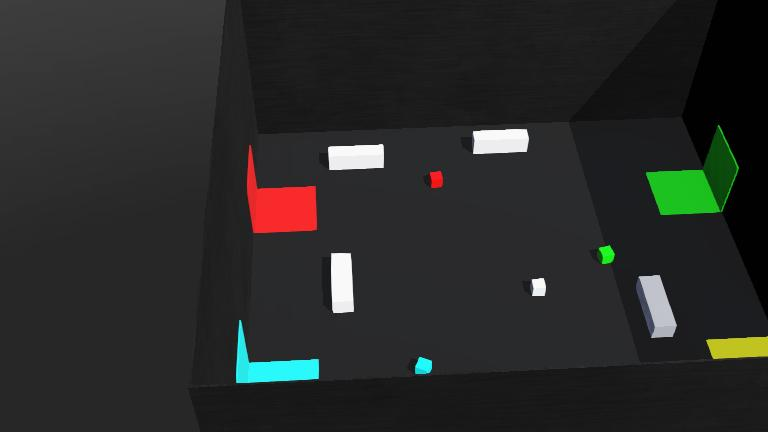
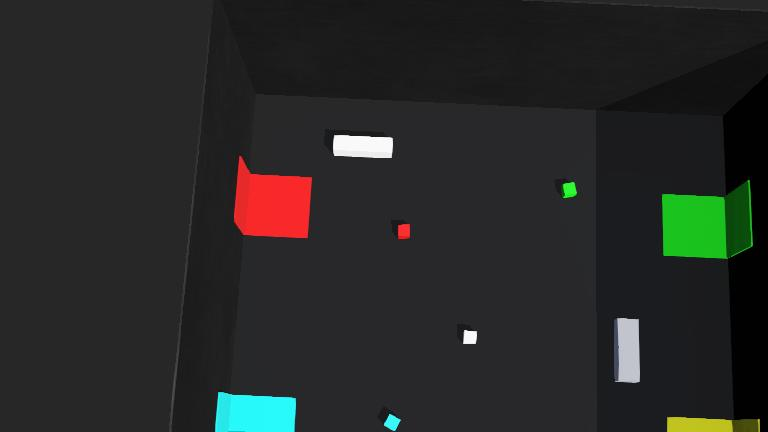
task done but without obstacle avoidence

diff --git a/Final/controllers/bbAlr8/bbAlr8.py b/Final/controllers/bbAlr8/bbAlr8.py
@@ -2,9 +2,9 @@ import cv2
 import numpy as np
 from controller import Robot, Camera, Motor, Gyro
 
-class SimplifiedRobotController:
+class MultiColorRobotController:
     def __init__(self):
-        """Initialize the robot controller with OpenCV color tracking."""
+        """Initialize the robot controller with OpenCV color tracking for multiple colors."""
         # Initialize the robot
         self.robot = Robot()
         self.time_step = int(self.robot.getBasicTimeStep())
@@ -30,9 +30,18 @@ class SimplifiedRobotController:
         # Default motor speeds
         self.MAX_SPEED = 7.0
         
-        # Color detection parameters (HSV ranges)
-        self.blue_lower = np.array([90, 100, 50])
-        self.blue_upper = np.array([130, 255, 255])
+        # Color detection parameters (HSV ranges for different colors)
+        self.color_ranges = {
+            "blue": {"lower": np.array([90, 100, 50]), "upper": np.array([130, 255, 255])},
+            "red1": {"lower": np.array([0, 100, 50]), "upper": np.array([10, 255, 255])},  # Lower red range
+            "red2": {"lower": np.array([160, 100, 50]), "upper": np.array([180, 255, 255])},  # Upper red range
+            "green": {"lower": np.array([40, 100, 50]), "upper": np.array([80, 255, 255])},
+            "yellow": {"lower": np.array([20, 100, 50]), "upper": np.array([40, 255, 255])}
+        }
+        
+        # Current color to detect (for both box and goal)
+        self.current_color = "blue"
+        self.target_mode = "box"  # Either "box" or "goal"
         
         # Box detection parameters
         self.min_box_area = 300
@@ -43,6 +52,7 @@ class SimplifiedRobotController:
         cv2.namedWindow('Robot View', cv2.WINDOW_NORMAL)
         
         # Task management
+        self.main_phase = "blue_phase"  # Starts with blue phase, then red, green, yellow
         self.current_task = "initial_navigation"
         self.has_box = False
         self.turn_angle = 0.0
@@ -54,12 +64,15 @@ class SimplifiedRobotController:
         img_array = np.frombuffer(image, np.uint8).reshape((self.height, self.width, 4))
         return img_array[:, :, :3]  # Return BGR image
     
-    def detect_blue_object(self, captured_mode=False):
+    def detect_colored_object(self, goal_mode=False):
         """
-        Detect blue objects in the image with size constraints.
-        Returns (detected, x, y, w, h, area, center_x)
+        Detect colored objects in the image with size constraints.
         
-        If captured_mode is True, we're looking for the goal, which is larger
+        Args:
+            goal_mode (bool): If True, looking for goals which are larger than boxes
+        
+        Returns:
+            (detected, x, y, w, h, area, center_x)
         """
         # Get camera image
         img_bgr = self.get_camera_image()
@@ -68,8 +81,16 @@ class SimplifiedRobotController:
         # Convert to HSV colorspace
         img_hsv = cv2.cvtColor(img_bgr, cv2.COLOR_BGR2HSV)
         
-        # Create mask for blue color
-        mask = cv2.inRange(img_hsv, self.blue_lower, self.blue_upper)
+        # Create mask for the current color
+        if self.current_color == "red":
+            # For red, we need to combine two ranges due to how hue wraps around
+            mask1 = cv2.inRange(img_hsv, self.color_ranges["red1"]["lower"], self.color_ranges["red1"]["upper"])
+            mask2 = cv2.inRange(img_hsv, self.color_ranges["red2"]["lower"], self.color_ranges["red2"]["upper"])
+            mask = cv2.bitwise_or(mask1, mask2)
+        else:
+            # For other colors, use the corresponding range
+            mask = cv2.inRange(img_hsv, self.color_ranges[self.current_color]["lower"], 
+                              self.color_ranges[self.current_color]["upper"])
         
         # Add morphology operations to clean up the mask
         kernel = np.ones((5, 5), np.uint8)
@@ -80,10 +101,10 @@ class SimplifiedRobotController:
         contours, _ = cv2.findContours(mask, cv2.RETR_EXTERNAL, cv2.CHAIN_APPROX_SIMPLE)
         
         # Area constraints
-        min_area = self.min_box_area  # Default minimum area (e.g., 500 pixels)
+        min_area = self.min_box_area  # Default minimum area
         max_area = self.width * self.height * 0.2  # Max 20% of image
         
-        if captured_mode:
+        if goal_mode:
             # When looking for the goal, adjust size constraints
             min_area = self.min_box_area * 3
             max_area = self.width * self.height * 0.8  # Allow larger area for goal
@@ -106,8 +127,16 @@ class SimplifiedRobotController:
             x, y, w, h = cv2.boundingRect(best_contour)
             center_x = x + (w // 2)
             
-            # Draw rectangle around detected object
-            cv2.rectangle(img_display, (x, y), (x + w, y + h), (0, 0, 255), 2)
+            # Set display color based on current color
+            color_display = (0, 0, 255)  # Default red rectangle
+            if self.current_color == "blue":
+                color_display = (255, 0, 0)
+            elif self.current_color == "green":
+                color_display = (0, 255, 0)
+            elif self.current_color == "yellow":
+                color_display = (0, 255, 255)
+            
+            cv2.rectangle(img_display, (x, y), (x + w, y + h), color_display, 2)
             cv2.line(img_display, (center_x, y), (center_x, y + h), (255, 0, 0), 2)
             
             # Draw center of image
@@ -116,21 +145,21 @@ class SimplifiedRobotController:
             
             # Add information text
             aspect_ratio = w / max(1, h)
-            cv2.putText(img_display, f"Task: {self.current_task}", (10, 20), 
+            cv2.putText(img_display, f"Phase: {self.main_phase}", (10, 20), 
                         cv2.FONT_HERSHEY_SIMPLEX, 0.6, (255, 255, 255), 2)
-            cv2.putText(img_display, f"Area: {max_area_found:.0f}", (10, 50), 
+            cv2.putText(img_display, f"Task: {self.current_task}", (10, 45), 
                         cv2.FONT_HERSHEY_SIMPLEX, 0.6, (255, 255, 255), 2)
-            cv2.putText(img_display, f"Aspect: {aspect_ratio:.2f}", (10, 80), 
+            cv2.putText(img_display, f"Target: {self.target_mode} ({self.current_color})", (10, 70), 
+                        cv2.FONT_HERSHEY_SIMPLEX, 0.6, (255, 255, 255), 2)
+            cv2.putText(img_display, f"Area: {max_area_found:.0f}", (10, 95), 
+                        cv2.FONT_HERSHEY_SIMPLEX, 0.6, (255, 255, 255), 2)
+            cv2.putText(img_display, f"Aspect: {aspect_ratio:.2f}", (10, 120), 
                         cv2.FONT_HERSHEY_SIMPLEX, 0.6, (255, 255, 255), 2)
             
             # Show constraints
-            cv2.putText(img_display, f"Min area: {min_area}", (10, 110),
+            cv2.putText(img_display, f"Min area: {min_area}", (10, 145),
                         cv2.FONT_HERSHEY_SIMPLEX, 0.6, (255, 255, 255), 2)
-            cv2.putText(img_display, f"Max area: {max_area:.0f}", (10, 140),
-                        cv2.FONT_HERSHEY_SIMPLEX, 0.6, (255, 255, 255), 2)
-            cv2.putText(img_display, f"Y : {y:.0f}", (10, 170),
-                        cv2.FONT_HERSHEY_SIMPLEX, 0.6, (255, 255, 255), 2)
-            cv2.putText(img_display, f"Height*0.9 : {self.height*0.9:.0f}", (10, 200),
+            cv2.putText(img_display, f"Max area: {max_area:.0f}", (10, 170),
                         cv2.FONT_HERSHEY_SIMPLEX, 0.6, (255, 255, 255), 2)
             
             # Display the image
@@ -140,15 +169,19 @@ class SimplifiedRobotController:
             return True, x, y, w, h, max_area_found, center_x
         else:
             # No object detected
-            cv2.putText(img_display, f"Task: {self.current_task}", (10, 20), 
+            cv2.putText(img_display, f"Phase: {self.main_phase}", (10, 20), 
                         cv2.FONT_HERSHEY_SIMPLEX, 0.6, (255, 255, 255), 2)
-            cv2.putText(img_display, "No blue object detected", (10, 50), 
+            cv2.putText(img_display, f"Task: {self.current_task}", (10, 45), 
+                        cv2.FONT_HERSHEY_SIMPLEX, 0.6, (255, 255, 255), 2)
+            cv2.putText(img_display, f"Target: {self.target_mode} ({self.current_color})", (10, 70), 
+                        cv2.FONT_HERSHEY_SIMPLEX, 0.6, (255, 255, 255), 2)
+            cv2.putText(img_display, f"No object detected", (10, 95), 
                         cv2.FONT_HERSHEY_SIMPLEX, 0.6, (255, 255, 255), 2)
             
             # Show constraints
-            cv2.putText(img_display, f"Min area: {min_area}", (10, 80),
+            cv2.putText(img_display, f"Min area: {min_area}", (10, 120),
                         cv2.FONT_HERSHEY_SIMPLEX, 0.6, (255, 255, 255), 2)
-            cv2.putText(img_display, f"Max area: {max_area:.0f}", (10, 110),
+            cv2.putText(img_display, f"Max area: {max_area:.0f}", (10, 145),
                         cv2.FONT_HERSHEY_SIMPLEX, 0.6, (255, 255, 255), 2)
             
             # Draw center of image
@@ -156,7 +189,7 @@ class SimplifiedRobotController:
             cv2.line(img_display, (img_center_x, 0), (img_center_x, self.height), (0, 255, 255), 1)
             
             # Also display the mask to debug color detection
-            cv2.imshow('Blue Mask', mask)
+            cv2.imshow('Color Mask', mask)
             cv2.imshow('Robot View', img_display)
             cv2.waitKey(1)
             
@@ -249,20 +282,45 @@ class SimplifiedRobotController:
         
         return False
     
+    def transition_to_next_color_phase(self):
+        """Transition to the next color phase in the sequence."""
+        if self.main_phase == "blue_phase":
+            self.main_phase = "red_phase"
+            self.current_color = "red"
+            print("Transitioning to RED phase")
+        elif self.main_phase == "red_phase":
+            self.main_phase = "green_phase"
+            self.current_color = "green"
+            print("Transitioning to GREEN phase")
+        elif self.main_phase == "green_phase":
+            self.main_phase = "yellow_phase"
+            self.current_color = "yellow"
+            print("Transitioning to YELLOW phase")
+        elif self.main_phase == "yellow_phase":
+            self.main_phase = "completed"
+            print("All phases completed!")
+        
+        # Reset task state for the new phase
+        self.current_task = "turn_to_find_box"
+        self.target_mode = "box"  # Start by finding a box
+        self.has_box = False
+        self.reset_rotation_tracking()
+        self.timer = 0
+    
     def run(self):
         """Main control loop for the robot."""
-        # Target angles for initial navigation (radians)
-        TURN_LEFT_ANGLE = 1.57   # 90 degrees
-        TURN_RIGHT_ANGLE = -1.57  # -90 degrees
+        # Define angles for turns (radians)
+        TURN_LEFT_ANGLE = 1.57    # 90 degrees counterclockwise
+        TURN_RIGHT_ANGLE = -1.57  # 90 degrees clockwise
+        TURN_180_ANGLE = -3.14 *0.4 # 180 degrees (full turn)
         
-        # Initial turn complete flag
+        # Initial turn complete flag for blue phase
         self.has_completed_initial_turn = False
         self.has_moved_forward = False
         self.has_turned_right = False
-        self.initial_search_started = False
         
         # Drive forward timer
-        forward_time = 1500  # milliseconds
+        forward_time = 1600  # milliseconds
         self.timer = 0
         
         # Reset rotation tracking at start
@@ -272,8 +330,8 @@ class SimplifiedRobotController:
             # Update timer
             self.timer += self.time_step
             
-            # Simple task-based approach instead of complex state machine
-            if self.current_task == "initial_navigation":
+            # Blue Phase: Initial Navigation
+            if self.main_phase == "blue_phase" and self.current_task == "initial_navigation":
                 # Sub-task 1: Turn left 90 degrees
                 if not self.has_completed_initial_turn:
                     if self.turn_to_angle(TURN_LEFT_ANGLE):
@@ -296,20 +354,30 @@ class SimplifiedRobotController:
                         self.reset_rotation_tracking()
                         print("Right turn complete")
                         self.current_task = "find_box"
+                        self.target_mode = "box"
             
+            # All Phases: Find Box of Current Color
             elif self.current_task == "find_box":
-                # Search for the blue box by rotating
-                detected, x, y, w, h, area, center_x = self.detect_blue_object(False)
+                # Make sure we're looking for a box
+                self.target_mode = "box"
+                
+                # Search for the box of current color by rotating
+                detected, x, y, w, h, area, center_x = self.detect_colored_object(False)
                 
                 if not detected:
                     # Turn slowly to search
                     self.move_motors(-self.MAX_SPEED * 0.5, self.MAX_SPEED * 0.5)
                 else:
                     self.current_task = "approach_box"
+                    print(f"Found {self.current_color} box, approaching")
             
+            # All Phases: Approach Box
             elif self.current_task == "approach_box":
-                # Detect and follow the blue box
-                detected, x, y, w, h, area, center_x = self.detect_blue_object(False)
+                # Make sure we're still looking for a box
+                self.target_mode = "box"
+                
+                # Detect and follow the box
+                detected, x, y, w, h, area, center_x = self.detect_colored_object(False)
                 
                 if not detected:
                     # Lost the box, go back to search
@@ -320,32 +388,42 @@ class SimplifiedRobotController:
                     self.has_box = True
                     self.reset_rotation_tracking()
                     self.current_task = "turn_to_goal"
-                    print("Box captured, turning to find goal")
+                    print(f"{self.current_color} box captured, turning to find goal")
                 else:
                     # Follow the box using adaptive control
                     self.follow_object(detected, center_x, area)
             
+            # All Phases: Turn to Find Goal
             elif self.current_task == "turn_to_goal":
                 # Turn left 90 degrees to face the goal area
                 if self.turn_to_angle(TURN_LEFT_ANGLE):
                     self.reset_rotation_tracking()
                     self.current_task = "find_goal"
-                    print("Turned to face goal area")
+                    self.target_mode = "goal"  # Now looking for a goal
+                    print(f"Turned to face {self.current_color} goal area")
             
+            # All Phases: Find Goal - Now uses the same color as the box
             elif self.current_task == "find_goal":
-                # Search for the blue goal
-                detected, x, y, w, h, area, center_x = self.detect_blue_object(True)
+                # We're looking for a goal - keep same color as the box
+                self.target_mode = "goal"
+                
+                # Search for the matching colored goal
+                detected, x, y, w, h, area, center_x = self.detect_colored_object(True)
                 
                 if not detected:
                     # Turn slowly to search
                     self.move_motors(-self.MAX_SPEED * 0.5, self.MAX_SPEED * 0.5)
                 else:
                     self.current_task = "approach_goal"
-                    print("Goal found, approaching")
+                    print(f"{self.current_color} goal found, approaching")
             
+            # All Phases: Approach Goal - Uses same color as box
             elif self.current_task == "approach_goal":
-                # Detect and approach the blue goal
-                detected, x, y, w, h, area, center_x = self.detect_blue_object(True)
+                # Still looking for a goal
+                self.target_mode = "goal"
+                
+                # Detect and approach the matching colored goal
+                detected, x, y, w, h, area, center_x = self.detect_colored_object(True)
                 
                 if not detected:
                     # Lost the goal, go back to search
@@ -357,19 +435,54 @@ class SimplifiedRobotController:
                         self.move_motors(0, 0)
                         self.current_task = "retreat"
                         self.timer = 0
-                        print("Goal reached, retreating")
+                        print(f"Goal reached with {self.current_color} box, retreating")
                     else:
                         # Approach the goal while keeping it centered
                         self.follow_object(detected, center_x, area)
             
+            # All Phases: Retreat
             elif self.current_task == "retreat":
                 # Back up for 2 seconds
                 self.move_motors(-self.MAX_SPEED * 0.7, -self.MAX_SPEED * 0.7)
-                if self.timer >= 2000:  # 2 seconds
+
+                retreatTime = 4000
+
+                if (self.current_color == "red"):
+                    retreatTime = 10000
+
+                if self.timer >= retreatTime:  # 2 seconds
                     self.move_motors(0, 0)
-                    self.current_task = "finished"
-                    print("Task completed successfully")
+                    
+                    # Check if we're done with all phases
+                    if self.main_phase == "yellow_phase":
+                        self.main_phase = "completed"
+                        self.current_task = "finished"
+                        print("All tasks completed successfully!")
+                    else:
+                        # Prepare for next color phase
+                        self.transition_to_next_color_phase()
             
+            # For turning to correct position to find next box
+            elif self.current_task == "turn_to_find_box":
+                target_angle = 0
+                
+                # Different turning angles based on the current phase
+                if self.main_phase == "red_phase":
+                    # After blue phase, turn right to find red box
+                    target_angle = TURN_RIGHT_ANGLE
+                elif self.main_phase == "green_phase":
+                    # After red phase, turn 180 degrees to find green box
+                    target_angle = TURN_180_ANGLE
+                elif self.main_phase == "yellow_phase":
+                    # After green phase, turn left to find yellow box
+                    target_angle = TURN_LEFT_ANGLE
+                
+                if self.turn_to_angle(target_angle):
+                    self.reset_rotation_tracking()
+                    self.current_task = "find_box"
+                    print(f"Turned to search for {self.current_color} box")
+            
+            # Final completion
             elif self.current_task == "finished":
                 # Keep robot stopped
                 self.move_motors(0, 0)
@@ -382,7 +495,7 @@ class SimplifiedRobotController:
 def main():
     """Main function to create and run the robot controller."""
     try:
-        controller = SimplifiedRobotController()
+        controller = MultiColorRobotController()
         controller.run()
     except KeyboardInterrupt:
         controller.cleanup()
